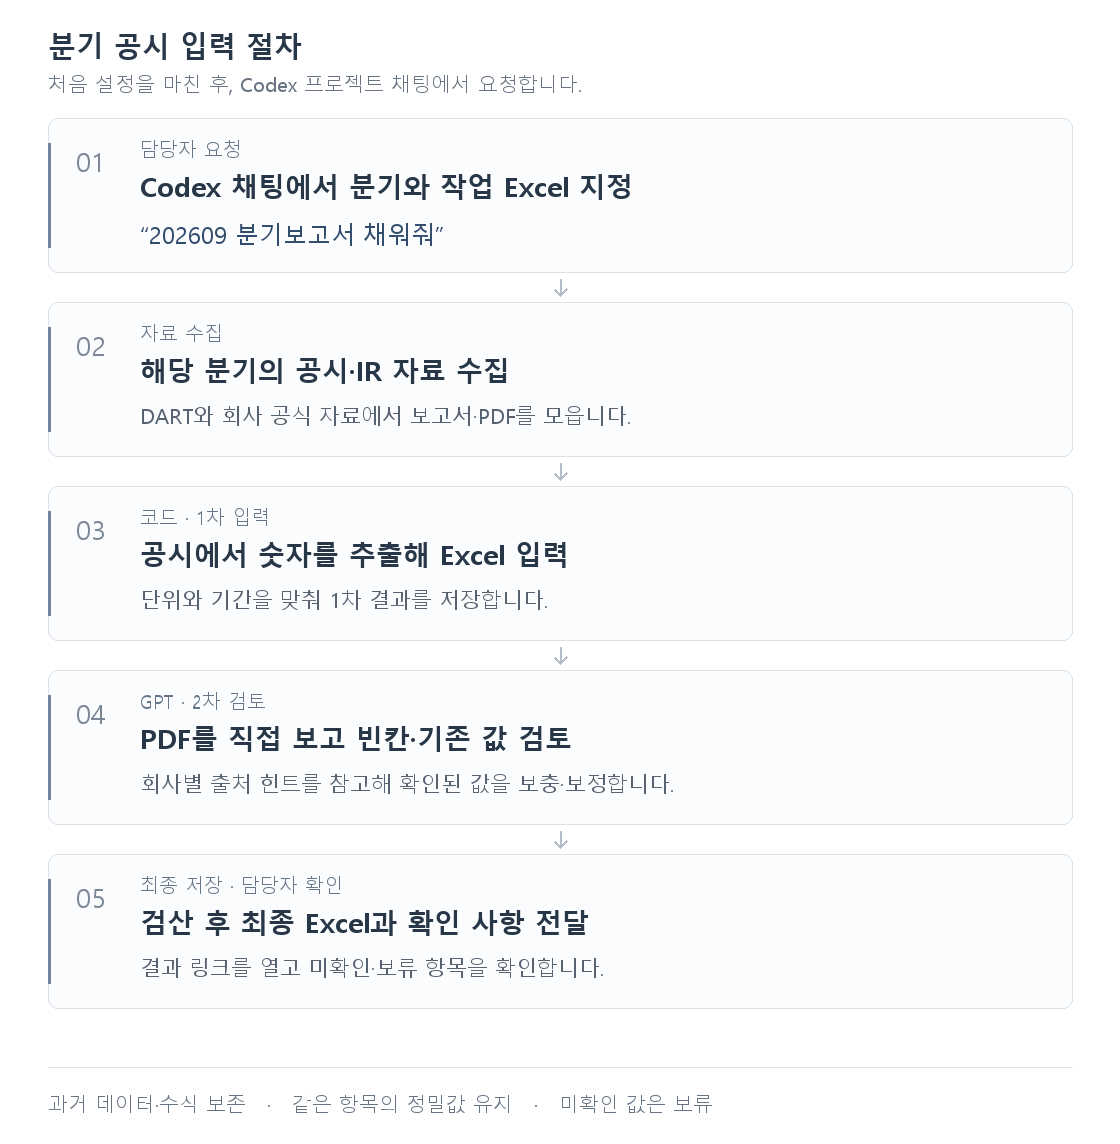
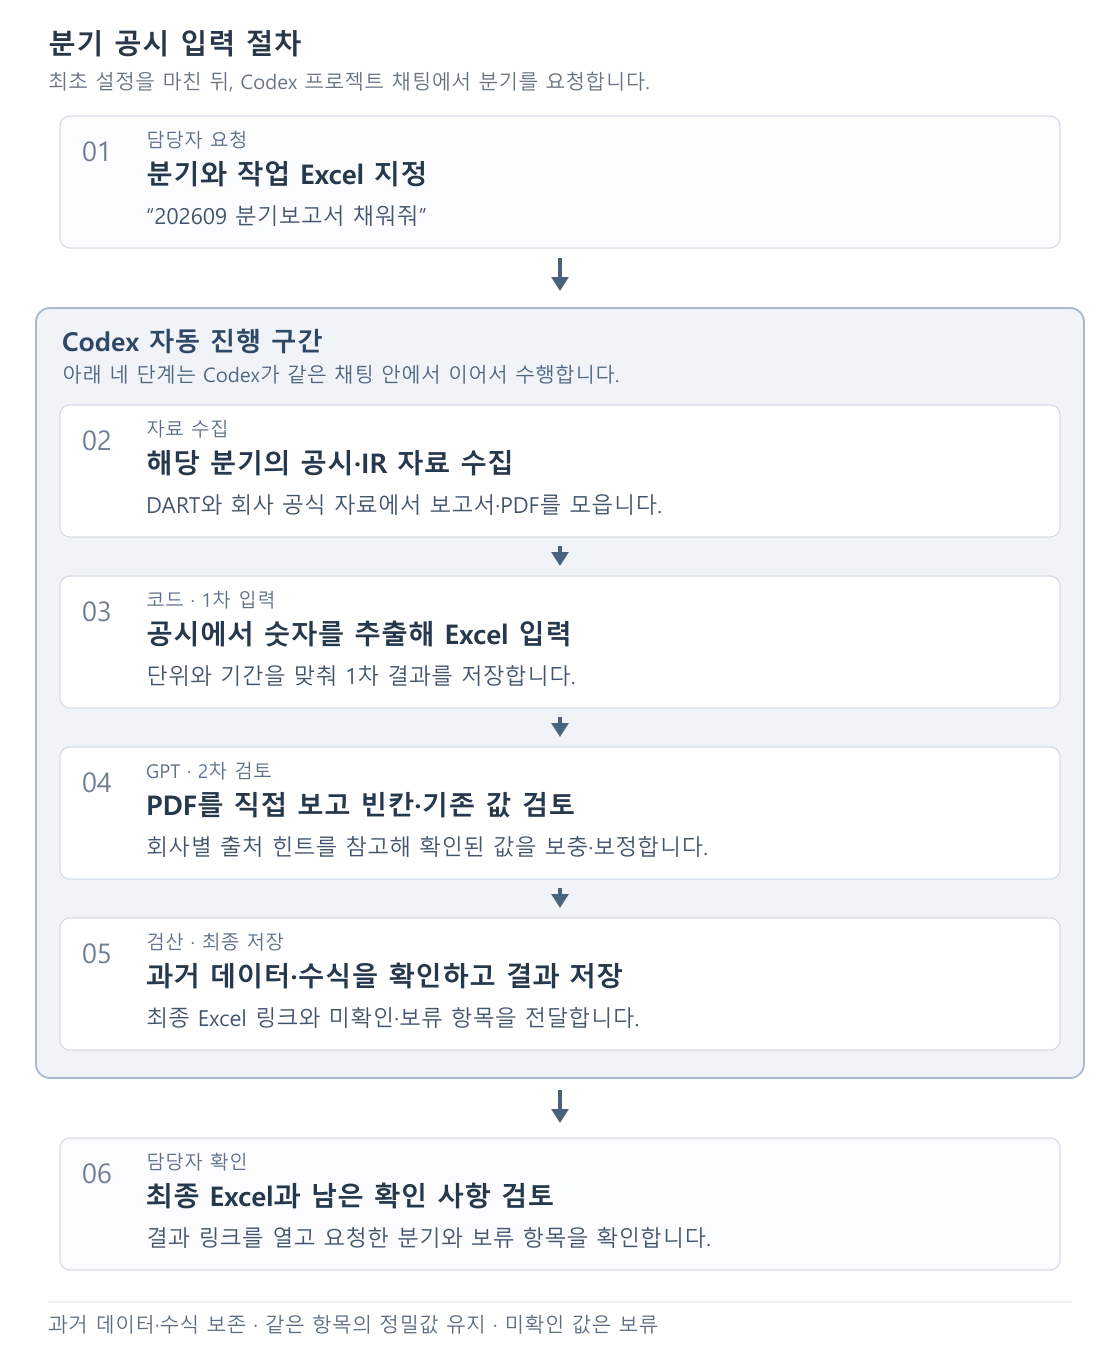
docs: show Codex execution boundary and clearer workflow arrows

diff --git a/README.md b/README.md
@@ -6,7 +6,7 @@
 
 ## 한눈에 보는 흐름
 
-<img src="docs/quarterly_workflow.png" alt="담당자 요청, 자료 수집, 코드 1차 입력, GPT PDF 검토, 최종 저장과 확인 순서" width="840">
+<img src="docs/quarterly_workflow.png" alt="담당자 요청과 결과 확인 사이에 Codex가 자동 진행하는 자료 수집·코드 입력·GPT PDF 검토·최종 저장 구간" width="840">
 
 **담당자가 분기를 요청하면, 자료 수집 → 코드 1차 입력 → GPT PDF 검토·보정 → 검산·최종 저장은 Codex가 이 채팅 안에서 이어서 진행합니다.**
 담당자는 완료 답변의 Excel을 열고 미확인·보류 항목을 확인하면 됩니다. 단계마다 프로그램을 실행하거나 중간 파일을 옮길 필요는 없습니다.
